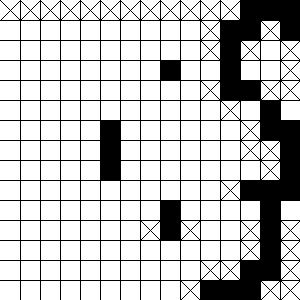
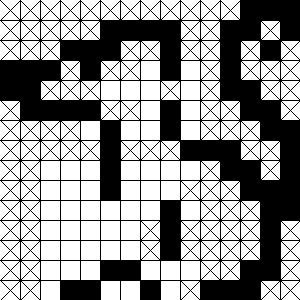
std_mouse is now solvedgit add std_mouse/ Fix a bug where crossed cells were not taken into account

diff --git a/src/test/java/fr/poulpogaz/nonogramssolver/DescriptorTest.java b/src/test/java/fr/poulpogaz/nonogramssolver/DescriptorTest.java
@@ -513,19 +513,17 @@ public class DescriptorTest {
     @Test
     void completeTest2() {
         CellWrapper[] wrappers = create(
-                EMPTY, EMPTY, EMPTY, EMPTY, EMPTY, EMPTY, EMPTY, EMPTY, FILLED, EMPTY, EMPTY, FILLED, EMPTY, EMPTY, CROSSED
+                CROSSED, EMPTY, EMPTY, EMPTY, EMPTY, EMPTY, FILLED, FILLED, FILLED, EMPTY, EMPTY, EMPTY, EMPTY, EMPTY, EMPTY
         );
-        int[] clues = new int[] {3, 1, 2, 1};
+        int[] clues = new int[] {2, 6, 2};
 
         Descriptor descriptor = new Descriptor(false, 0, clues, wrappers);
+        descriptor.shrink();
         descriptor.initClues();
         descriptor.computePossibilities();
         descriptor.optimizeCluesBoundWithOnePossibility();
-
-        List<Region> regions = descriptor.split();
-        System.out.println(regions);
-
-
+        descriptor.tryFill();
+        cellsEquals(wrappers, CROSSED, EMPTY, EMPTY, EMPTY, EMPTY, EMPTY, FILLED, FILLED, FILLED, FILLED, EMPTY, EMPTY, EMPTY, EMPTY, EMPTY);
     }
 
 

diff --git a/src/main/java/fr/poulpogaz/nonogramssolver/Descriptor.java b/src/main/java/fr/poulpogaz/nonogramssolver/Descriptor.java
@@ -80,6 +80,7 @@ public class Descriptor extends AbstractRegion {
             }
         }
 
+        shrink();
         initClues();
         computePossibilities();
         optimizeCluesBoundWithOnePossibility();
@@ -93,6 +94,24 @@ public class Descriptor extends AbstractRegion {
             }
         } else {
             tryFill();
+        }
+    }
+
+    protected void shrink() {
+        for (int i = 0; i < cells.length; i++) {
+            if (cells[i].isCrossed()) {
+                start = i + 1;
+            } else {
+                break;
+            }
+        }
+
+        for (int i = cells.length - 1; i >= 0; i--) {
+            if (cells[i].isCrossed()) {
+                end = i;
+            } else {
+                break;
+            }
         }
     }
 

diff --git a/src/main/java/fr/poulpogaz/nonogramssolver/Main.java b/src/main/java/fr/poulpogaz/nonogramssolver/Main.java
@@ -23,7 +23,7 @@ public class Main {
         Nonogram nonogram = Nonogram.fromImage(image);
         System.out.println(nonogram);
 
-        List<BufferedImage> images = nonogram.solveStepByStep(20, 20);
+        List<BufferedImage> images = nonogram.solveStepByStep(30, 20);
 
         try {
             Path folder = Path.of(input);
